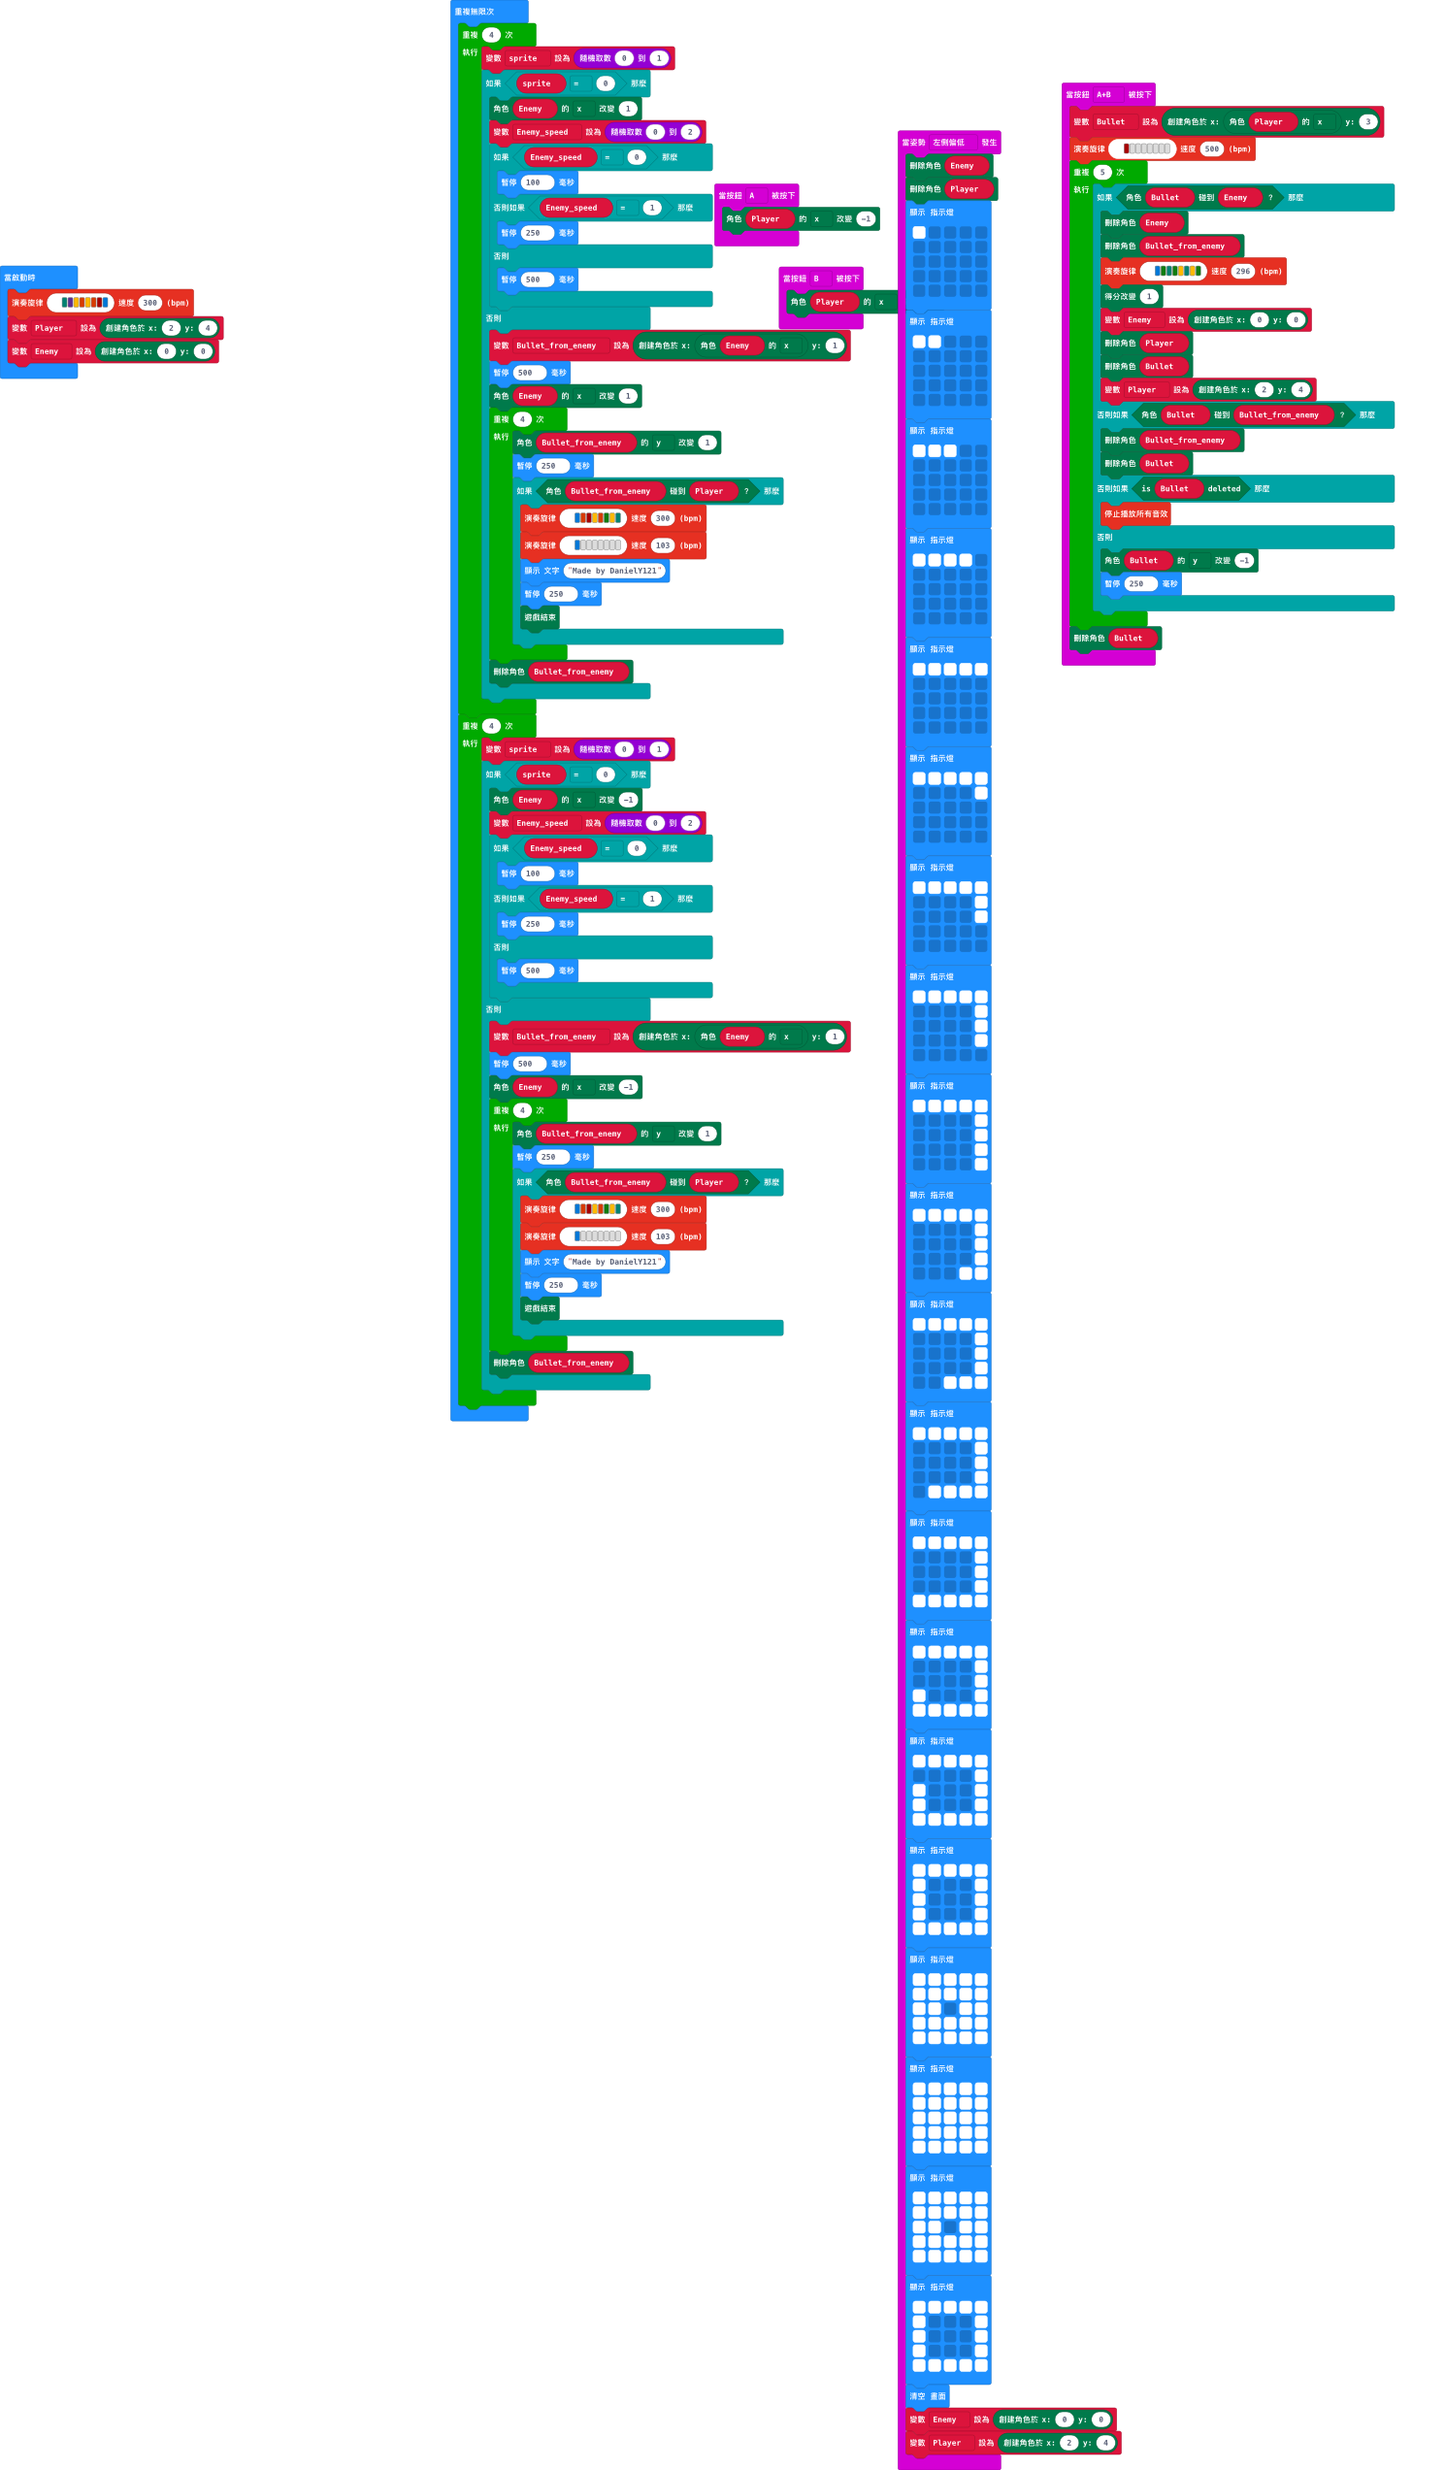
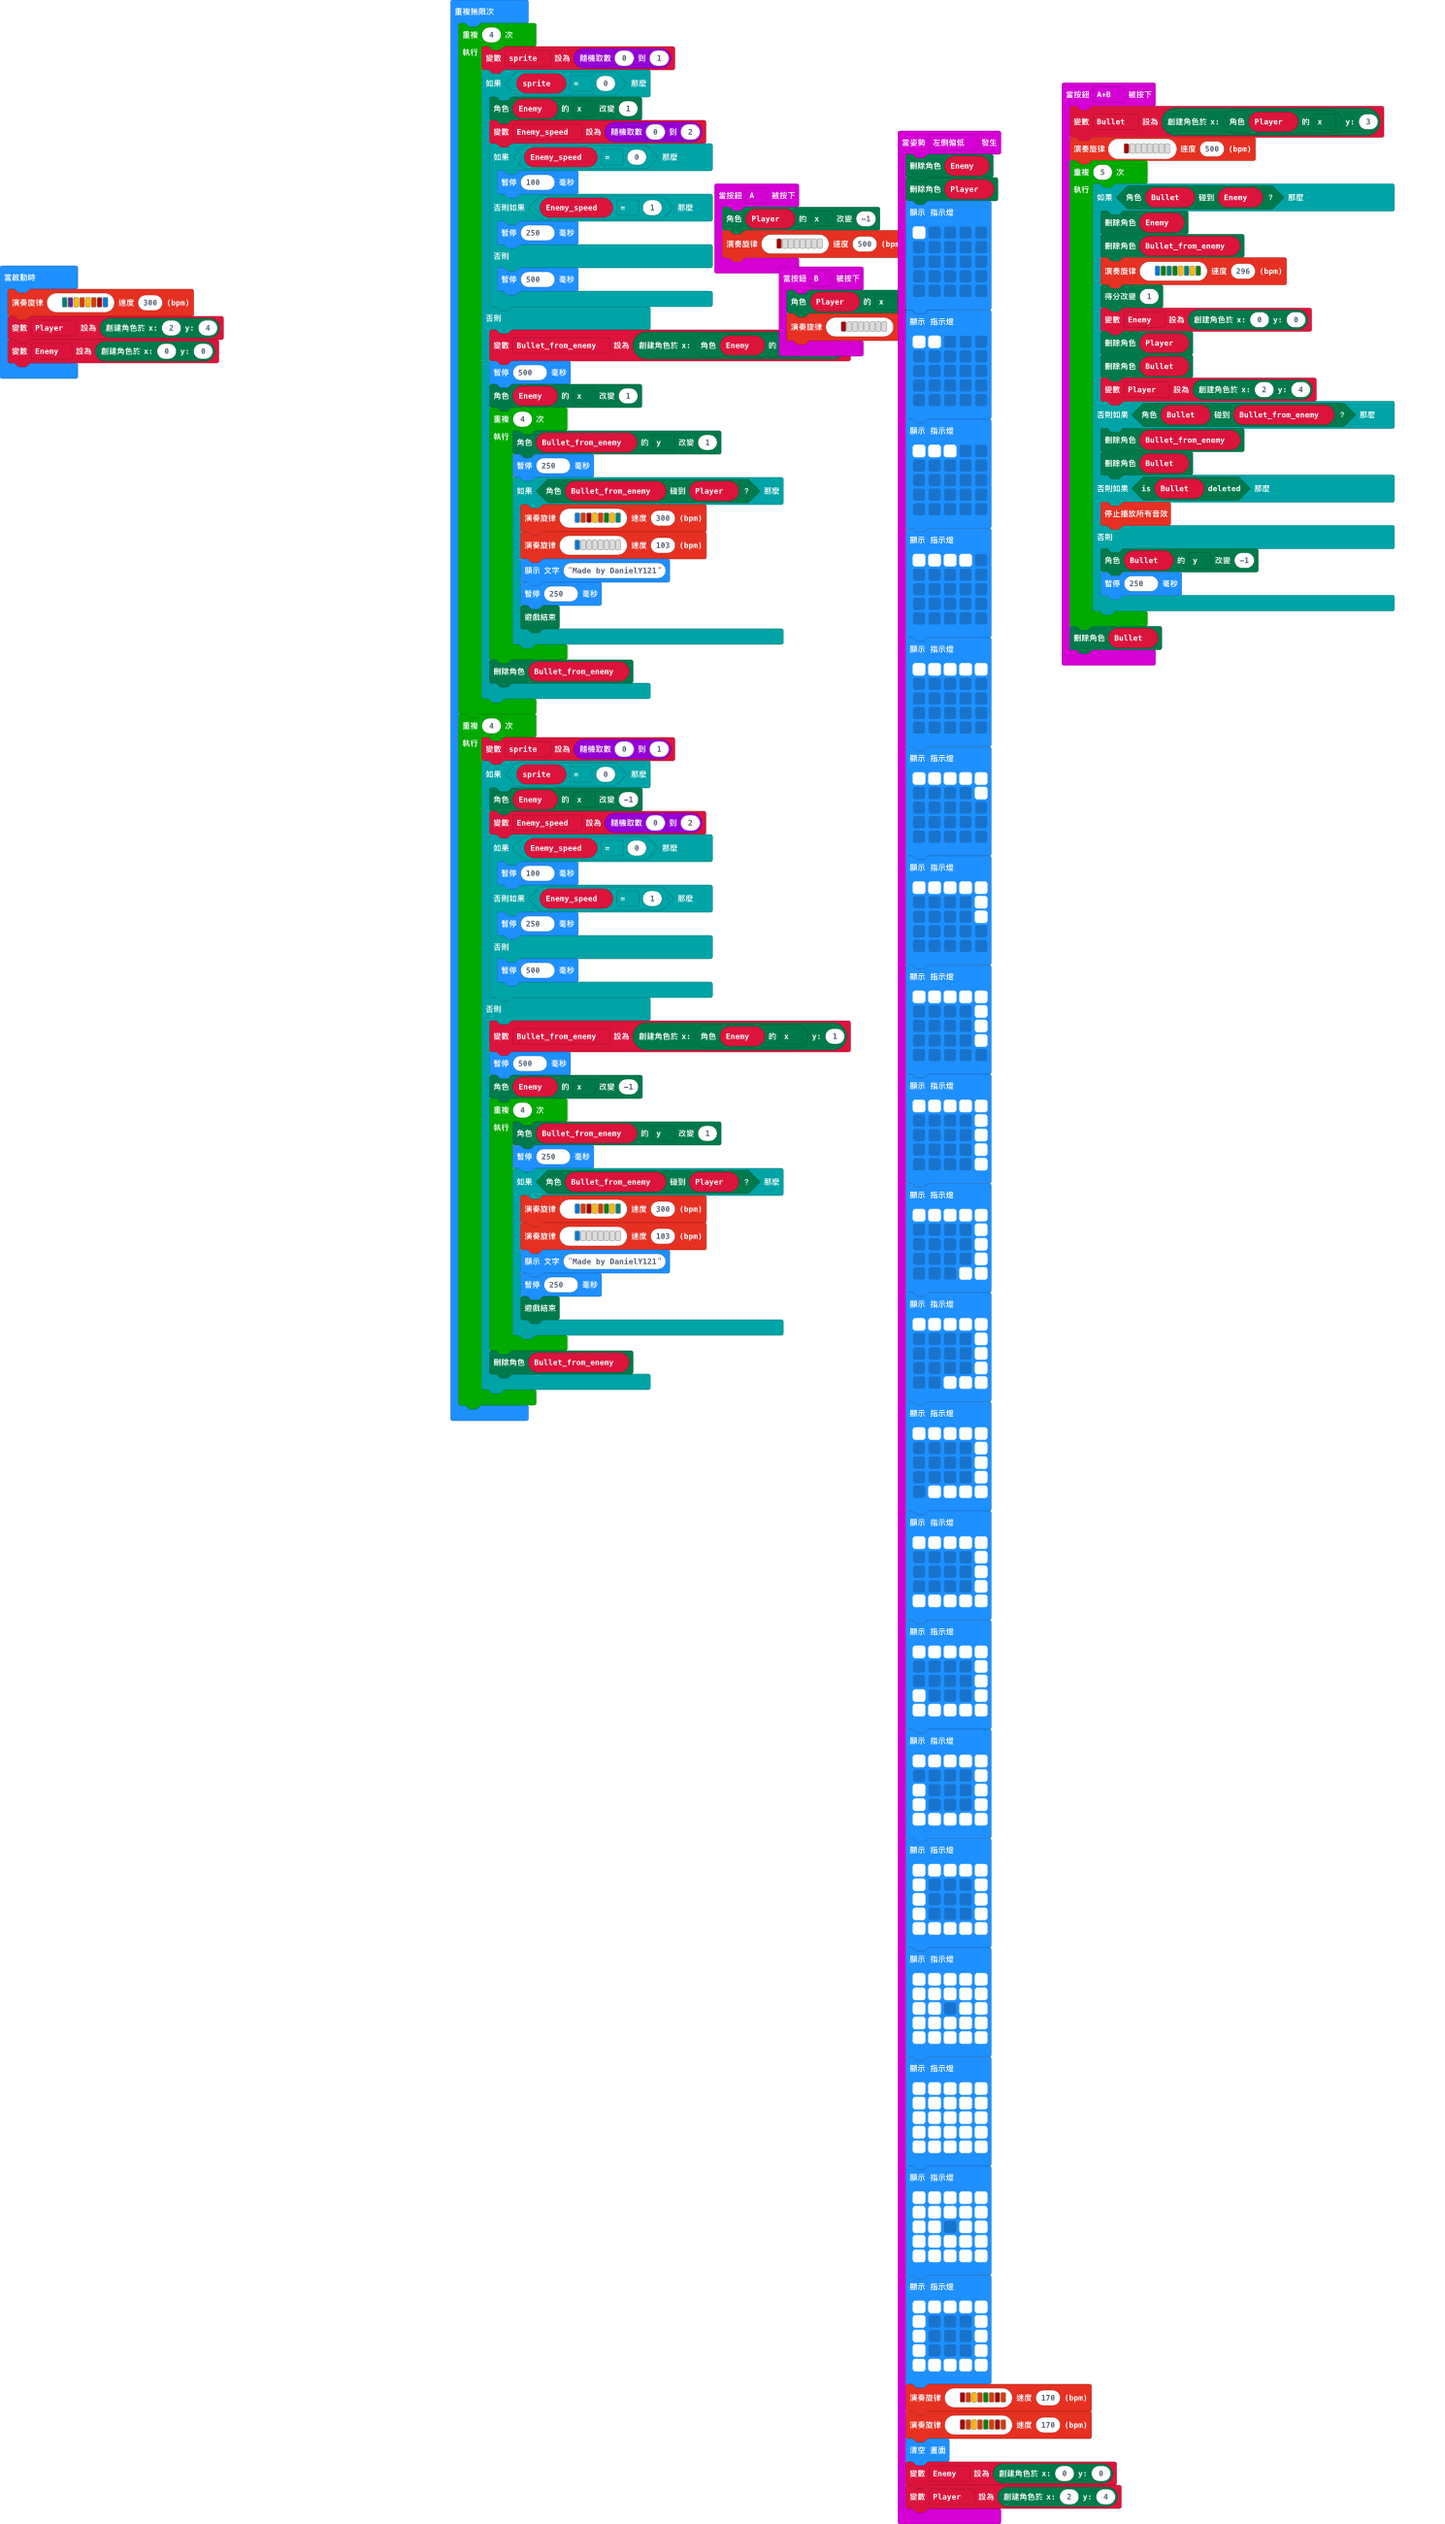
music

Changed region(s): [[0.3089, 0.0, 0.7723, 0.9933], [0.7414, 0.031, 0.9886, 0.2794], [0.0, 0.0931, 0.1545, 0.1552]]

diff --git a/main.ts b/main.ts
@@ -141,12 +141,15 @@ input.onGesture(Gesture.TiltLeft, function () {
         # . . . #
         # # # # #
         `)
+    music.playMelody("C5 B A B G B C5 B ", 170)
+    music.playMelody("C5 B A B G B C5 B ", 170)
     basic.clearScreen()
     Enemy = game.createSprite(0, 0)
     Player = game.createSprite(2, 4)
 })
 input.onButtonPressed(Button.A, function () {
     Player.change(LedSpriteProperty.X, -1)
+    music.playMelody("C5 - - - - - - - ", 500)
 })
 input.onButtonPressed(Button.AB, function () {
     Bullet = game.createSprite(Player.get(LedSpriteProperty.X), 3)
@@ -175,6 +178,7 @@ input.onButtonPressed(Button.AB, function () {
 })
 input.onButtonPressed(Button.B, function () {
     Player.change(LedSpriteProperty.X, 1)
+    music.playMelody("C5 - - - - - - - ", 500)
 })
 let Enemy_speed = 0
 let sprite = 0
